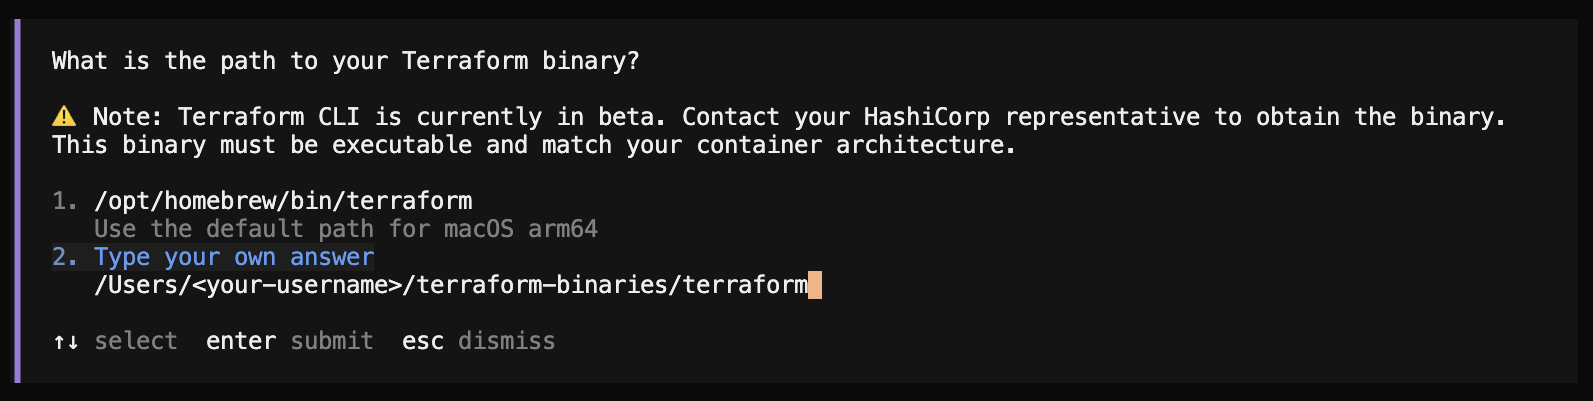
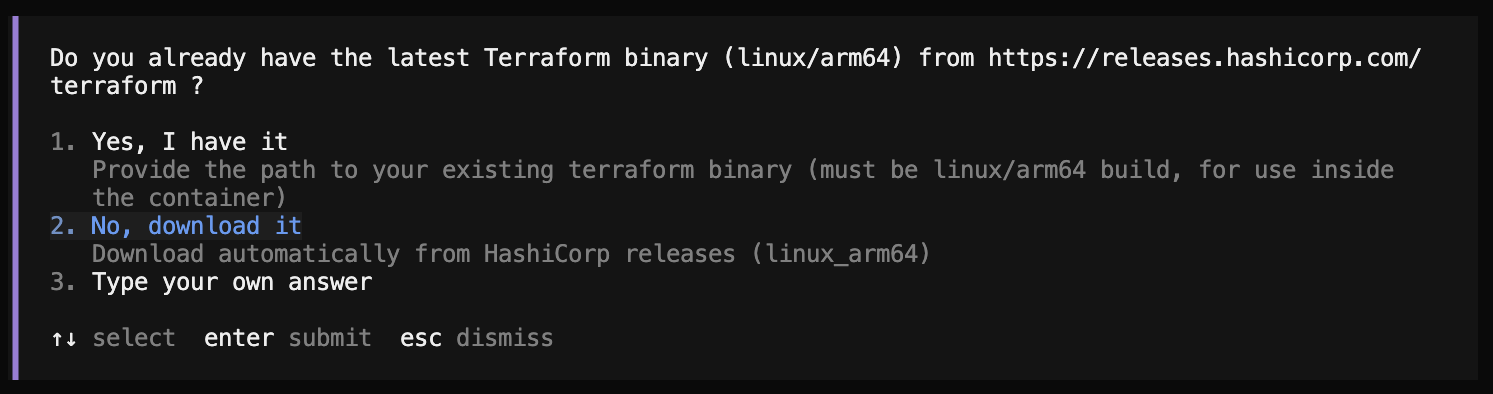
feat: address the remaining UX review findings

Changed region(s): [[0.0308, 0.2741, 0.9551, 0.7614], [0.0308, 0.1218, 0.9551, 0.2437], [0.0308, 0.8223, 0.3697, 0.8832]]

diff --git a/pre_check.py b/pre_check.py
@@ -315,6 +315,15 @@ def check_api_credentials(env: dict) -> dict:
         return {"provider": provider, "ok": False, "error": f"Unknown AUTH_PROVIDER: {provider!r}"}
 
 
+# Characters that break shell scripts and Docker volume mounts
+_PATH_UNSAFE_CHARS = r""" \t()[]{},'";!#$&*?<>|~`"""
+
+
+def check_working_directory_path(cwd: Path) -> bool:
+    path_str = str(cwd)
+    return not any(c in path_str for c in _PATH_UNSAFE_CHARS)
+
+
 def print_interactive_report(result: dict) -> None:
     """Print user-friendly interactive report"""
     print("\n" + "=" * 70)
@@ -516,6 +525,13 @@ def print_interactive_report(result: dict) -> None:
             status_text = f"Set and exists: {checks.get('external_repo_dir', '')}"
         print(f"   {status} external  : External Mode - {status_text}")
 
+    # 0. Working directory (subcommand: workdir)
+    if "workdir_ok" in checks:
+        status = "🟢" if checks["workdir_ok"] else "🔴"
+        status_text = "OK" if checks["workdir_ok"] else "Contains unsafe characters"
+        print(f"   {status} workdir   : Working Directory - {status_text}")
+        print(f"                   Path: {checks['workdir_path']}")
+
     # 11. API credentials (subcommand: api)
     if "api_credentials" in checks:
         api = checks["api_credentials"]
@@ -561,7 +577,7 @@ def main() -> int:
     check_targets = []  # list of checks to run
     use_tmp = False  # --tmp flag: read .env.tmp instead of .env
 
-    valid_subcommands = ["all", "docker", "env", "binaries", "input", "image", "mcp", "database", "output", "local", "external", "api"]
+    valid_subcommands = ["all", "docker", "env", "binaries", "input", "image", "mcp", "database", "output", "local", "external", "api", "workdir"]
     
     if len(sys.argv) > 1:
         if sys.argv[1] in ["--help", "-h"]:
@@ -569,6 +585,7 @@ def main() -> int:
             print()
             print("Subcommands (can specify multiple):")
             print("  all                 Run all checks (default)")
+            print("  workdir             Check working directory path for spaces / unsafe characters")
             print("  docker              Check Docker daemon")
             print("  env                 Check environment variables")
             print("  binaries            Check terraform/tfpolicy binaries")
@@ -594,6 +611,7 @@ def main() -> int:
             print("  pre_check.py docker binaries mcp       # Check multiple items")
             print("  pre_check.py mcp --json                # Check MCP server (JSON)")
             print("  pre_check.py --tmp mcp                 # Check MCP server using .env.tmp")
+            print("  pre_check.py workdir                   # Check working directory path only")
             return 0
         
         # Parse arguments
@@ -623,6 +641,26 @@ def main() -> int:
         "errors": [],
         "warnings": [],
     }
+
+    # Working directory check (runs first, no .env needed)
+    if "all" in check_targets or "workdir" in check_targets:
+        wd_ok = check_working_directory_path(repo_root)
+        result["checks"]["workdir_ok"] = wd_ok
+        result["checks"]["workdir_path"] = str(repo_root)
+        if not wd_ok:
+            result["ok"] = False
+            result["errors"].append(
+                f"Working directory path contains unsafe characters: {repo_root}\n"
+                "   Fix: move project to a path with only letters, numbers, hyphens, "
+                "and underscores, e.g. ~/terraform-policy-agent"
+            )
+
+    if check_targets == ["workdir"]:
+        if output_format == "json":
+            print(json.dumps(result, indent=2))
+        else:
+            print_interactive_report(result)
+        return 0 if result["ok"] else 1
 
     # Check Docker daemon first (required for most checks)
     if "all" in check_targets or "docker" in check_targets:

diff --git a/skills/tfpac-setup/SKILL.md b/skills/tfpac-setup/SKILL.md
@@ -48,6 +48,30 @@ When loading an existing .env file, use the dotenv_tool.py to safely retrieve no
 
 ## Workflow
 
+### GREETING (Always execute before entering the workflow below)
+
+Show the following message to the user:
+
+"""
+👋 Hello! Welcome to the Terraform Policy Agent setup wizard.
+
+This wizard will guide you through the configuration of the Terraform Policy Agent project.
+
+Setup Overview:
+  1. Environment checks      — verify Docker, images, and system readiness
+  2. Select workflow         — choose local or external repository mode
+  3. Configure binary paths  — set up Terraform and TFPolicy binaries
+  4. Configure AI provider   — select GitHub Copilot, LiteLLM, or Amazon Bedrock
+  5. Configure pipeline      — set workers, timeouts, and output paths
+  6. Configure MCP           — verify MCP server connectivity
+  7. Review settings         — confirm all configuration values
+  8. Create .env             — generate the validated configuration file
+  9. Verify configuration    — run pre-flight checks to confirm readiness
+
+When setup is complete, a validated `.env` configuration will be created and verified.
+You will then be ready to run the Terraform Policy Agent workflow.
+"""
+
 > **`.env.tmp` — progress memo:** This wizard uses `.env.tmp` as a running memo. Each environment variable is noted here as it is confirmed. If a session is interrupted, check for `.env.tmp` and resume from where it left off.
 
 **Session resume check:** Before anything else, check whether `.env.tmp` exists:
@@ -250,7 +274,23 @@ If user wants help:
 4. Show confirmation: "✅ Data directory setup complete. Files copied to data/input/sentinels/"
 
 If **No** or user declines help:
-- Show instructions:
+- Check whether `./sample-data` exists:
+  ```bash
+  ls ./sample-data
+  ```
+  - If **`./sample-data` exists**, ask: "Would you like to try with the sample data first?"
+    - If **Yes**:
+      1. Run: `cp -r sample-data data`
+      2. Write to `.env.tmp`:
+         ```
+         DATA_DIR=./data
+         INPUT_DIR=input
+         INPUT_FILE=policy_goal.txt
+         ```
+      3. Show confirmation: "✅ Sample data copied to data/. You can run the pipeline with the sample policies."
+    - If **No**: Show instructions below.
+  - If **`./sample-data` does not exist**: Show instructions below.
+- Instructions:
   ```
   📋 Manual Setup Instructions:
   1. Create directory: data/input/sentinels/
@@ -453,7 +493,15 @@ Ask: "Do you already have the latest tfpolicy binary from https://releases.hashi
 
 ### Binary Paths Verification
 
-After both binary paths are confirmed, run the binary check against `.env.tmp`:
+After both binary paths are confirmed, display a summary of the configured paths:
+
+```
+Binary Path Summary:
+  terraform : <TERRAFORM_BINARY_PATH>
+  tfpolicy  : <TFPOLICY_BINARY_PATH>
+```
+
+Then run the binary check against `.env.tmp`:
 
 ```bash
 ./pre-check.sh --tmp binaries

diff --git a/TROUBLESHOOTING.md b/TROUBLESHOOTING.md
@@ -34,11 +34,21 @@ Open VS Code, press `Cmd+Shift+P`, search for **Shell Command: Install 'code' co
 **Symptom:**
 The pipeline ran successfully before, but now fails immediately at Stage 0 with an authorization error.
 
-**Likely cause: GitHub Copilot token has expired**
+**Step 1: Check if your API credentials are still valid**
+
+Run the following command first to confirm whether the token is the cause:
+
+```bash
+./pre-check.sh api
+```
+
+- 🟢 **api** — credentials are valid. The issue is not token-related; check other Stage 0 causes above.
+- 🔴 **api** — credentials are invalid or expired. Proceed to Step 2.
+
+**Step 2: Re-acquire your GitHub Copilot tokens**
 
 GitHub Copilot access tokens expire periodically. When a token expires, the pipeline fails silently at Stage 0 with no clear indication that the token is the cause.
 
-**Fix:**
 Re-acquire your GitHub Copilot tokens by following the [**"How to get GitHub Copilot tokens"** section in the README](./README.md#how-to-get-github-copilot-tokens), then update `GITHUB_COPILOT_ACCESS_TOKEN` (and optionally `GITHUB_COPILOT_REFRESH_TOKEN` and `GITHUB_COPILOT_EXPIRES`) in your `.env` file.
 
 
@@ -98,4 +108,24 @@ If you don't have access to GitHub Copilot or Amazon Bedrock, you can run the pi
    ```
 
 > **Note:** Local models may produce lower quality conversions than cloud models. Test with a small batch first.
+
+
+---
+
+## macOS: "Terminal would like to control Script Editor" permission dialog
+
+**Symptom:**
+A system dialog appears during the pipeline run:
+> "Terminal" would like to control "Script Editor". Allowing control will provide access to documents and data in "Script Editor", and to perform actions within that app.
+
+**Fix:**
+Click **OK** to allow. The pipeline requires this Automation permission to operate correctly on macOS.
+
+**If the pipeline stops for no apparent reason — this might be why:**
+On corporate Macs managed via MDM, the Automation permission can be silently denied — no dialog appears, no error is shown, the pipeline simply stops. If you cannot identify the cause, check this first:
+
+1. Open **System Settings → Privacy & Security → Automation**
+2. Find **Terminal** in the list and ensure **Script Editor** is checked.
+
+If the toggle is greyed out, you cannot fix this yourself — ask your IT administrator to grant `com.apple.Terminal` automation access.
 

diff --git a/README.md b/README.md
@@ -410,7 +410,7 @@ The pipeline runs 4 stages automatically. Each stage must complete before the ne
 | **Stage 2** | Generates policy files and tests for each requirement (runs in parallel) | `data/output/PolicyName/*.hcl`, `*.tf` |
 | **Stage 3** | Creates a consolidated summary report | `data/output/summary.md` |
 
-> **If the pipeline fails at Stage 0**, it is almost always an authentication issue. See [Troubleshooting](./TROUBLESHOOTING.md) for fixes.
+> **If the pipeline fails at Stage 0**, the most likely cause is an invalid or expired API key / token. First, run `./pre-check.sh api` to confirm whether your credentials are valid. If the check fails, re-acquire your tokens and update `.env`. See [Troubleshooting](./TROUBLESHOOTING.md) for fixes.
 
 ## Output Structure
 

diff --git a/COST_ESTIMATE.md b/COST_ESTIMATE.md
@@ -26,6 +26,8 @@ Amazon Bedrock is billed per token (input + output).
 
 **Estimated total cost for 10 policies (Claude Sonnet 5): $5–$10**
 
+**Recommendation:** Claude Sonnet 5 is strong and cheap
+
 > Prices are approximate and subject to AWS pricing changes. See [AWS Bedrock pricing](https://aws.amazon.com/bedrock/pricing/) for current rates.
 
 ---
